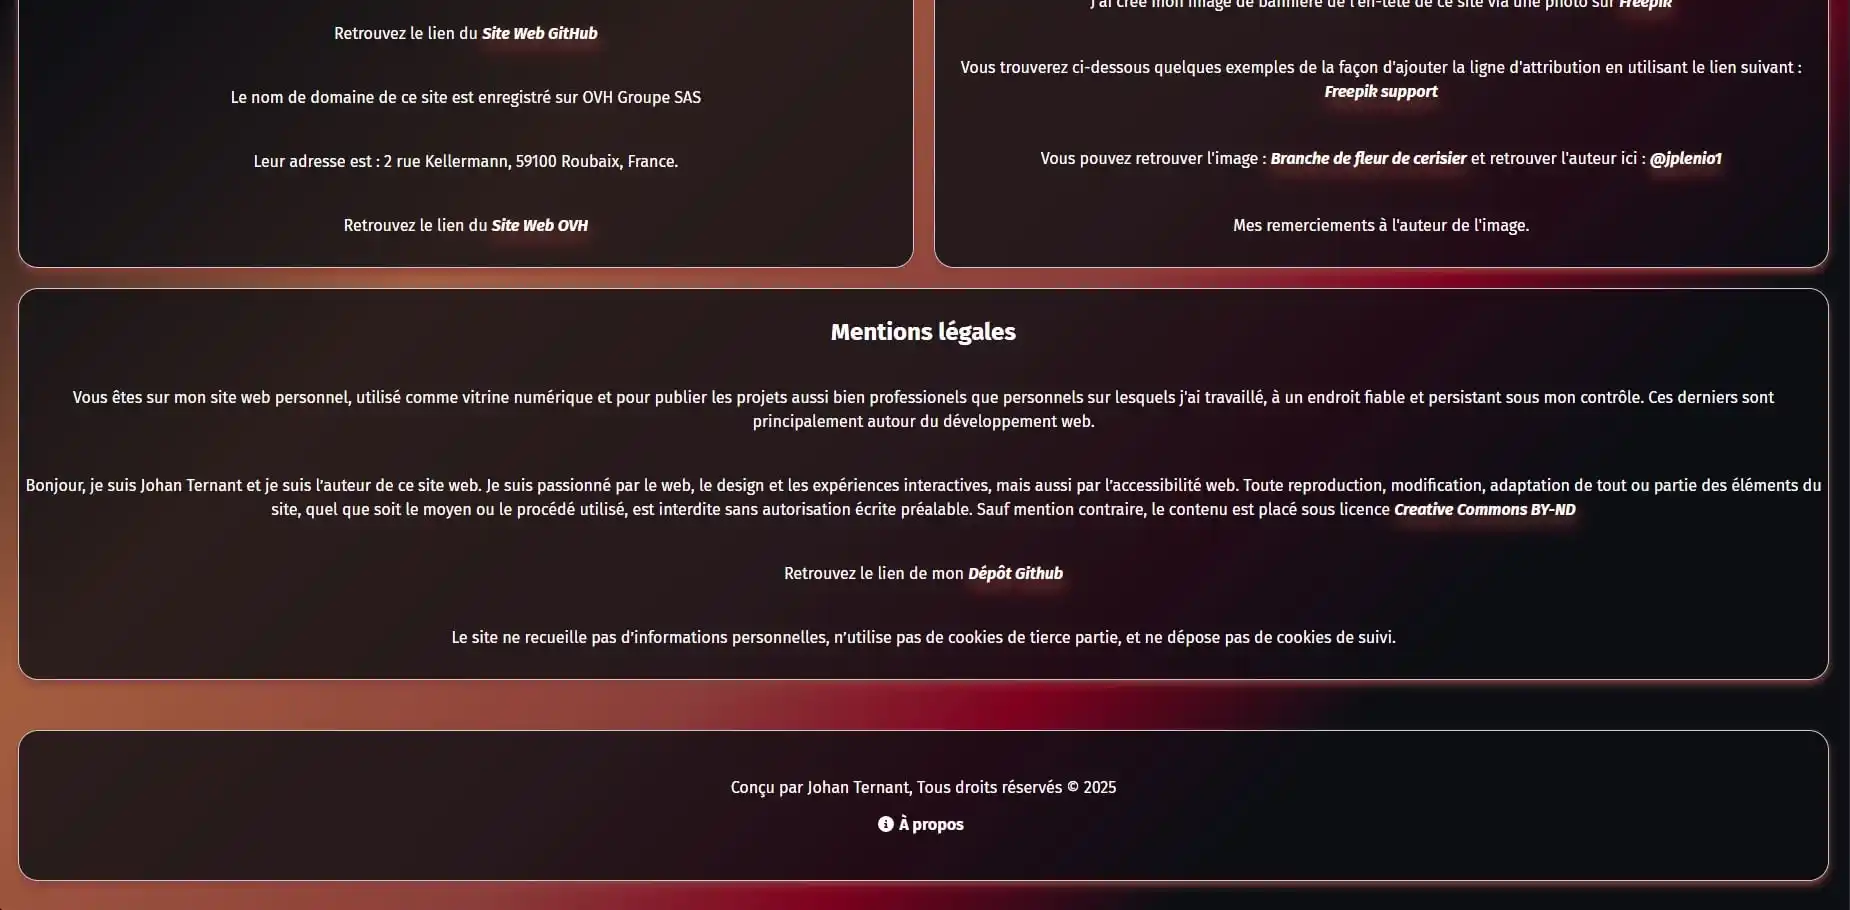
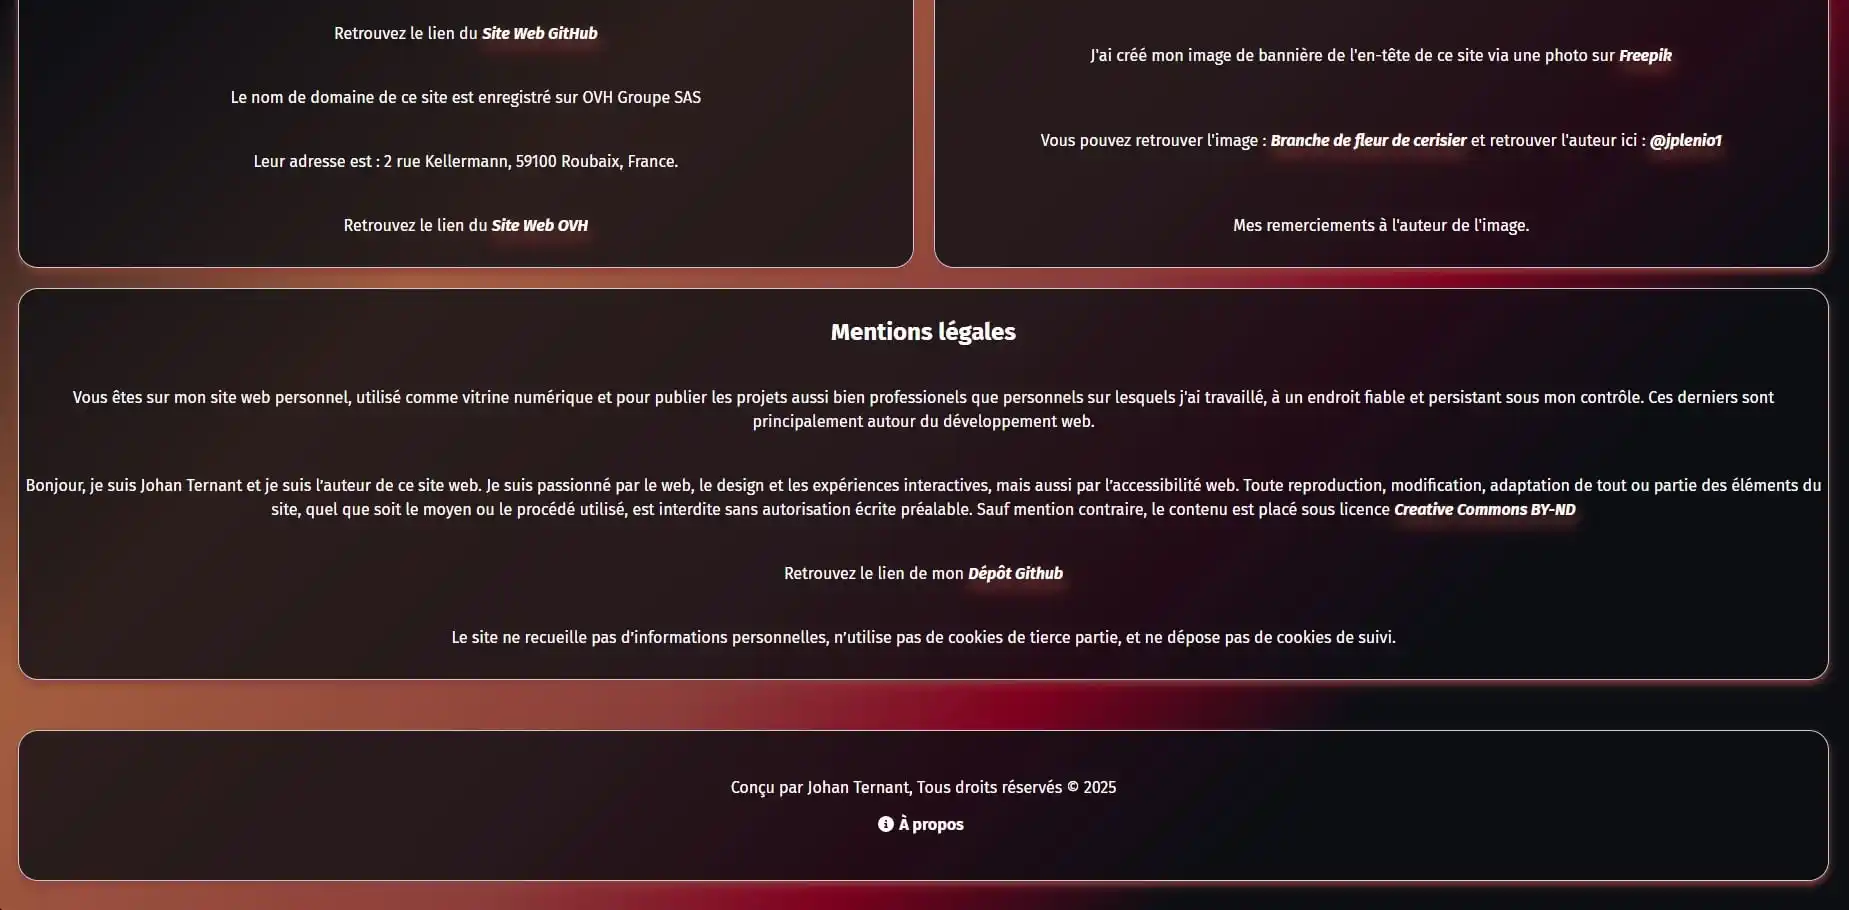
Bug fixes for ad blockers in the contact box (social) on home and others + Added the Scroll to Top component.

diff --git a/portfolio-johan-ternant/src/App.jsx b/portfolio-johan-ternant/src/App.jsx
@@ -1,6 +1,7 @@
 //Code éditer par Johan
-//Contient la/les routes des pages "home", "sign in" et "user" (react router)
+//Contient les routes des pages : home, projects, about-website et error404
 import { BrowserRouter, Routes, Route } from "react-router-dom";
+import ScrollToTop from "./components/scroll-to-top";
 import Header from "./components/header";
 import Footer from "./components/footer";
 import Home from "./components/pages/home";
@@ -11,12 +12,13 @@ import AboutWebsite from "./components/pages/about-website";
 const App = () => {
   return (
     <BrowserRouter>
+      <ScrollToTop /> {/* Fait défiler en haut à chaque changement de route */}
       <Header />
       <Routes>
         <Route path="/" element={<Home />} />
         <Route path="/projects" element={<Projects />} />
-        <Route path="*" element={<Error404 />} />
         <Route path="/about-website" element={<AboutWebsite />} />
+        <Route path="*" element={<Error404 />} />
       </Routes>
       <Footer />
     </BrowserRouter>

diff --git a/portfolio-johan-ternant/src/components/pages/about-website.jsx b/portfolio-johan-ternant/src/components/pages/about-website.jsx
@@ -92,17 +92,6 @@ const AboutWebsite = () => {
               </a>
             </p>
             <p>
-              {t("attributionInformationText")}
-              <a
-                href="https://support.freepik.com/s/article/Attribution-How-when-and-where?language=en_US&_gl=1*ftm9l1*_gcl_au*NDMxOTE0Mzk3LjE3NDA3NDIzNzk.*_ga*MjU0NTQxNTkwLjE3NDA3NDIzNzk.*_ga_QWX66025LC*czE3NDY2MDU0ODckbzgkZzEkdDE3NDY2MDU1MjckajIwJGwwJGgw"
-                target="_blank"
-                rel="noopener noreferrer"
-                className="about_website_links"
-              >
-                {t("attributionFreepikLink")}
-              </a>
-            </p>
-            <p>
               {t("bannerCopyrightText2")}
               <a
                 href="https://fr.freepik.com/photos-gratuite/branche-fleur-cerisier_12686583.htm#fromView=search&page=1&position=39&uuid=8e368b95-5fc2-432c-aa31-e32074e5635e&query=image+cerisier"

diff --git a/portfolio-johan-ternant/src/components/pages/home.jsx b/portfolio-johan-ternant/src/components/pages/home.jsx
@@ -1,6 +1,6 @@
 //Code éditer par Johan
 //Contient le menu principal "Home"
-import SocialLinks from "../bento/social-links";
+import ContactLinks from "../bento/contact-links";
 import BentoBox from "../bento/bento";
 import { FontAwesomeIcon } from "@fortawesome/react-fontawesome";
 import {
@@ -116,13 +116,13 @@ const Home = () => {
           </div>
         </BentoBox>
 
-        {/* Bloc des liens sociaux */}
-        <BentoBox className="box-social" title={t("contactTitle")}>
+        {/* Bloc contact */}
+        <BentoBox className="box-contact" title={t("contactTitle")}>
           <p>
             <FontAwesomeIcon icon={faEnvelope} />
             <a href="mailto:ternant.johan@sfr.fr">{t("contactEmail")}</a>
           </p>
-          <SocialLinks />
+          <ContactLinks />
         </BentoBox>
 
         {/* Bloc dédié au dernier projet réalisé */}

diff --git a/portfolio-johan-ternant/src/components/bento/contact-links.jsx b/portfolio-johan-ternant/src/components/bento/contact-links.jsx
@@ -1,13 +1,13 @@
 //Code édité par Johan
-//Composant pour les liens sociaux
+//Composant pour le contact
 import { useTranslation } from "react-i18next";
 import { FontAwesomeIcon } from "@fortawesome/react-fontawesome";
 import { faGithub, faLinkedin } from "@fortawesome/free-brands-svg-icons";
 
-const SocialLinks = () => {
+const ContactLinks = () => {
   const { t } = useTranslation();
   return (
-    <div className="link_social">
+    <div className="link_contact">
       <a
         href="https://github.com/Johan-Tnt"
         className="contact_button"
@@ -34,4 +34,4 @@ const SocialLinks = () => {
   );
 };
 
-export default SocialLinks;
+export default ContactLinks;

diff --git a/portfolio-johan-ternant/src/sass/home.scss b/portfolio-johan-ternant/src/sass/home.scss
@@ -86,9 +86,9 @@
     }
   }
 
-  //Box Social
-  .bento-box.box-social {
-    .link_social {
+  //Box Contact
+  .bento-box.box-contact {
+    .link_contact {
       display: flex;
       gap: 1rem;
       padding-bottom: 30px;
@@ -213,7 +213,7 @@
   .box-last-projects {
     grid-column: span 2;
   }
-  .box-social {
+  .box-contact {
     grid-column: span 1;
     grid-row: span 2;
   }
@@ -246,7 +246,7 @@
   .box-last-projects {
     grid-column: span 3;
   }
-  .home .box-social {
+  .home .box-contact {
     grid-row: span 1;
   }
   .box-web-tools {

diff --git a/portfolio-johan-ternant/src/components/scroll-to-top.jsx b/portfolio-johan-ternant/src/components/scroll-to-top.jsx
@@ -1,0 +1,17 @@
+//Code édité par Johan
+//Contient le scroll permettant d'atterir en haut d'une page web et non en bas par exemple
+import { useEffect } from "react";
+import { useLocation } from "react-router-dom";
+
+const ScrollToTop = () => {
+  const { pathname } = useLocation();
+
+  useEffect(() => {
+    //Scroll en haut de la page à chaque changement de route
+    window.scrollTo(0, 0);
+  }, [pathname]);
+
+  return null;
+};
+
+export default ScrollToTop;
